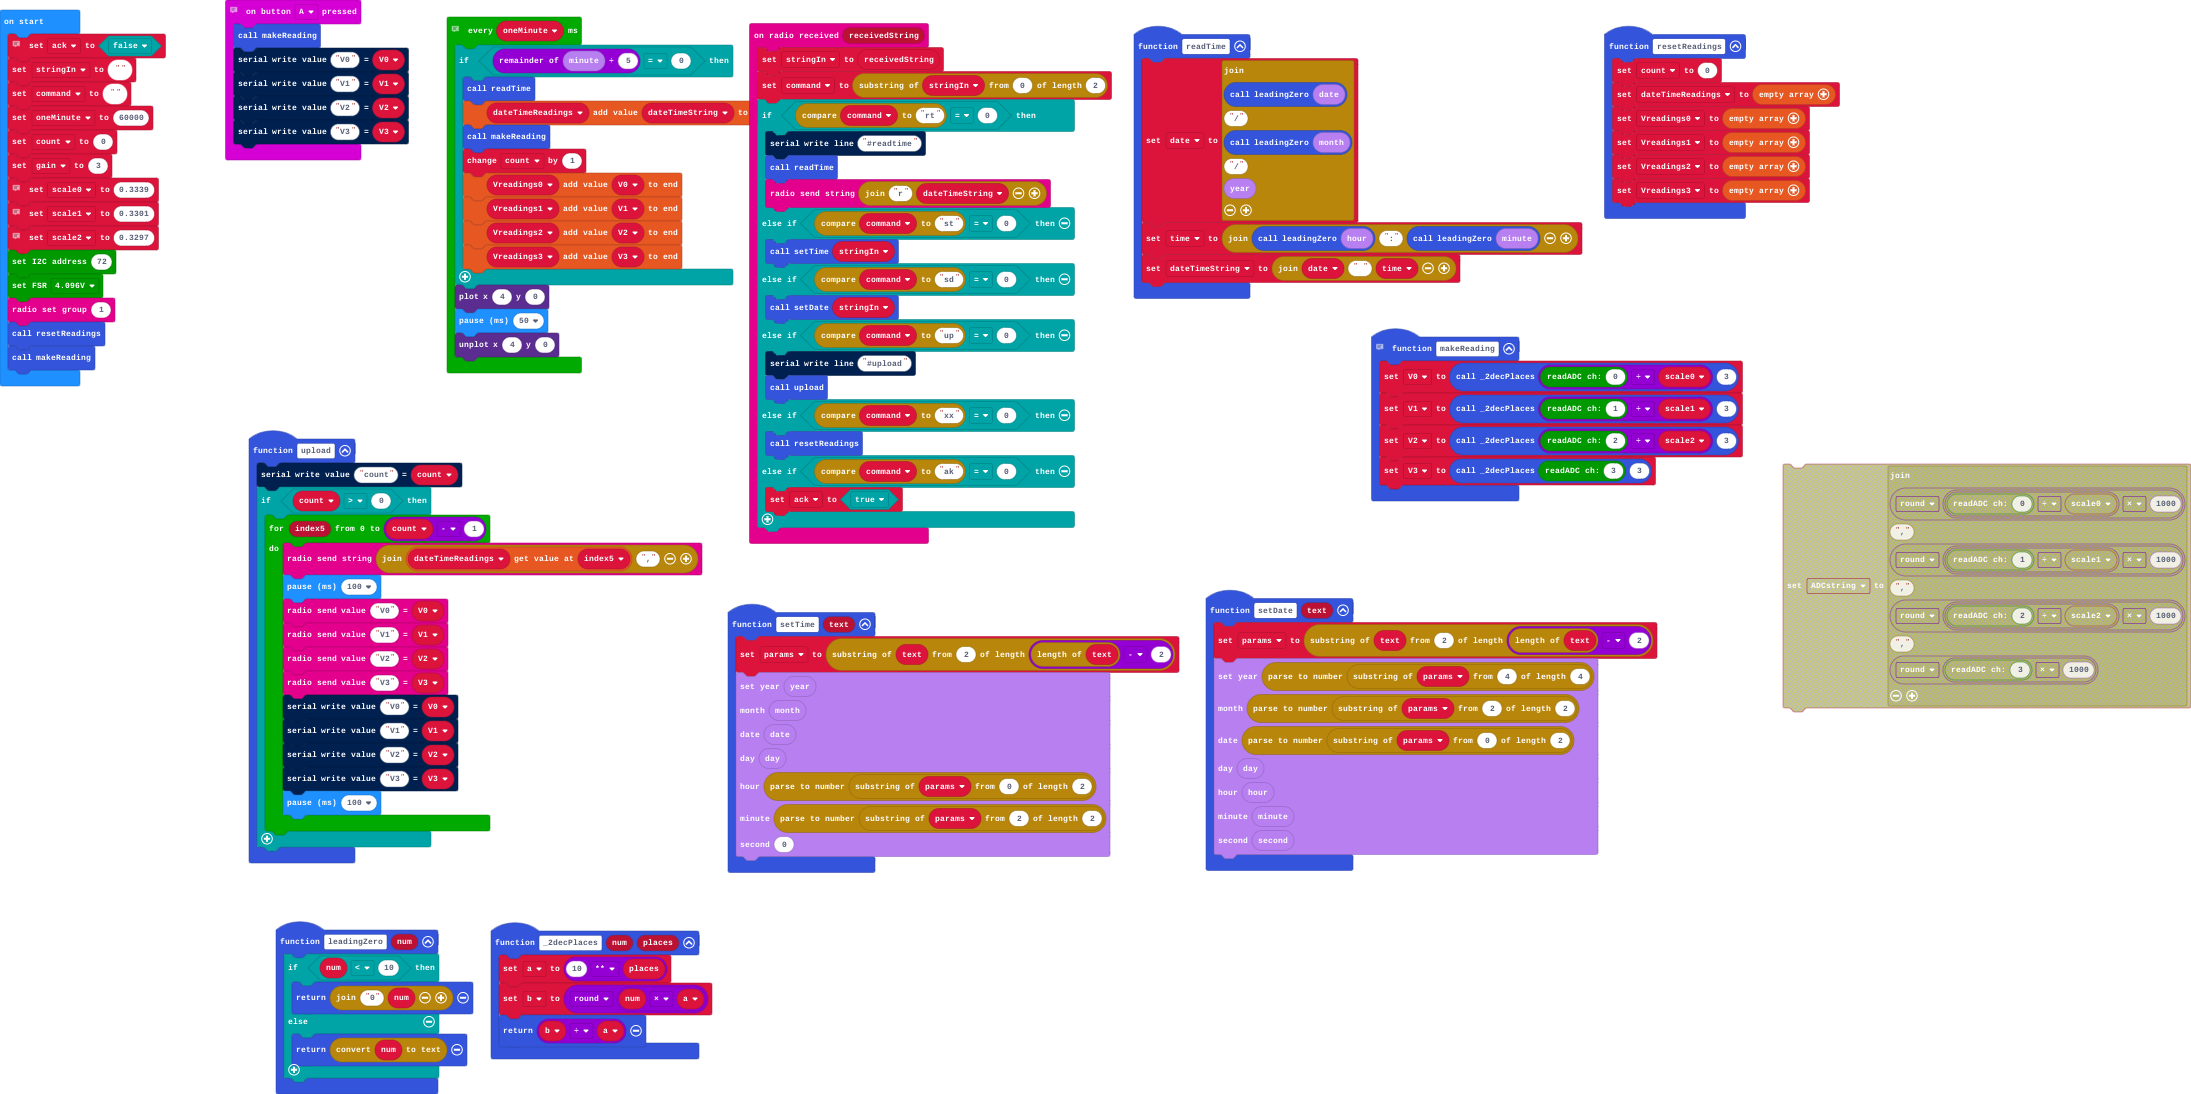
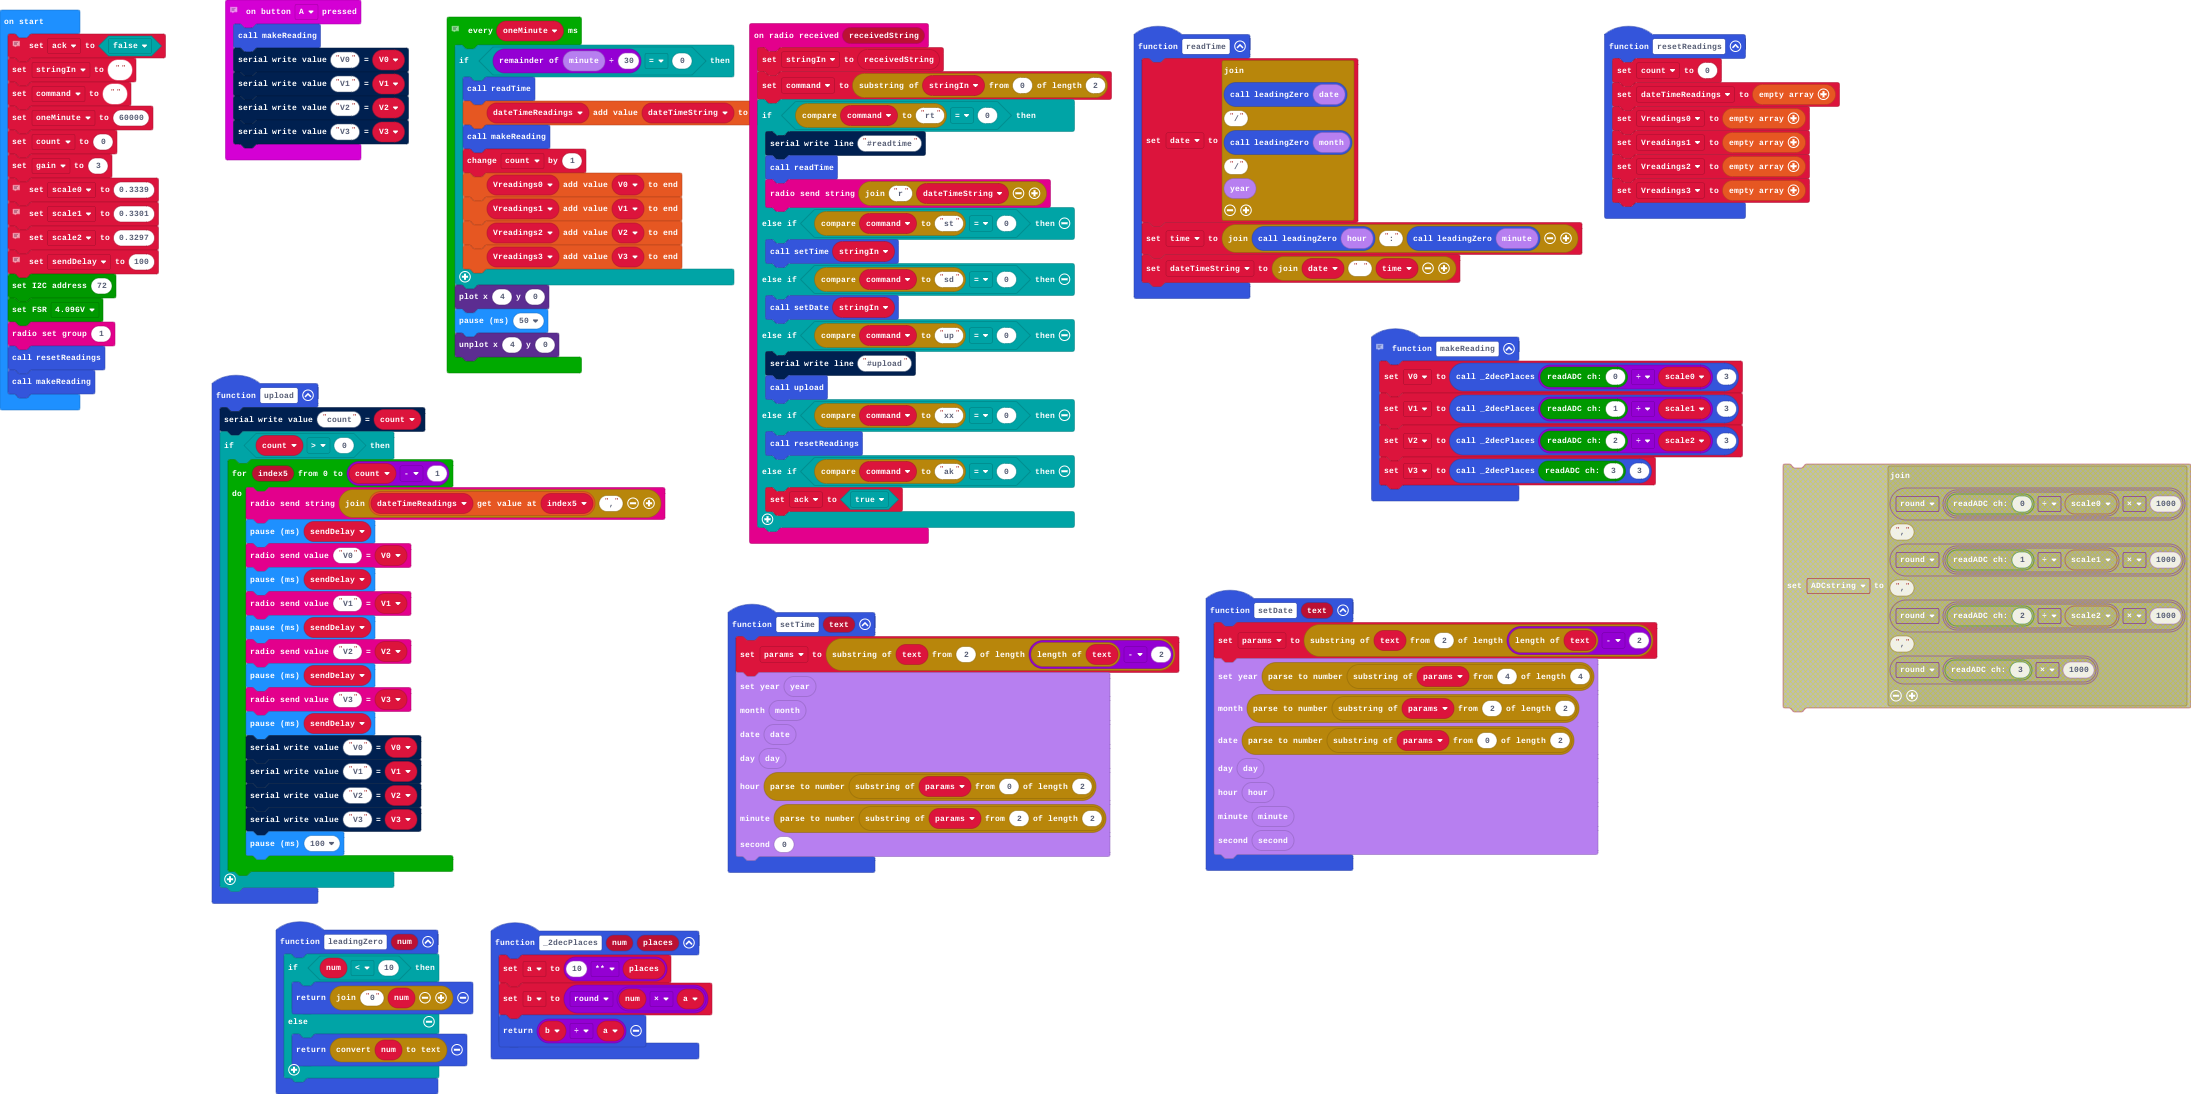
Update main.blocks, main.ts

Changed region(s): [[0.0931, 0.3419, 0.3414, 0.8391], [0.0, 0.2176, 0.0931, 0.3729]]

diff --git a/main.ts b/main.ts
@@ -55,11 +55,15 @@ function upload () {
     if (count > 0) {
         for (let index5 = 0; index5 <= count - 1; index5++) {
             radio.sendString("" + dateTimeReadings[index5] + ",")
-            basic.pause(100)
+            basic.pause(sendDelay)
             radio.sendValue("V0", V0)
+            basic.pause(sendDelay)
             radio.sendValue("V1", V1)
+            basic.pause(sendDelay)
             radio.sendValue("V2", V2)
+            basic.pause(sendDelay)
             radio.sendValue("V3", V3)
+            basic.pause(sendDelay)
             serial.writeValue("V0", V0)
             serial.writeValue("V1", V1)
             serial.writeValue("V2", V2)
@@ -115,6 +119,7 @@ let V0 = 0
 let dateTimeString = ""
 let time = ""
 let date = ""
+let sendDelay = 0
 let scale2 = 0
 let scale1 = 0
 let scale0 = 0
@@ -135,6 +140,8 @@ scale0 = 0.3339
 scale1 = 0.3301
 // Accurate scaling for attenuators
 scale2 = 0.3297
+// Delay after sending Radio mesg, to allow handling by receiver and terminal
+sendDelay = 100
 ADS1115.setADDR(72)
 ADS1115.setFSR(FSR.V4)
 radio.setGroup(1)
@@ -142,7 +149,7 @@ resetReadings()
 makeReading()
 // TODO - add multi-minute loop
 loops.everyInterval(oneMinute, function () {
-    if (DS3231.minute() % 5 == 0) {
+    if (DS3231.minute() % 30 == 0) {
         readTime()
         dateTimeReadings.push(dateTimeString)
         makeReading()
